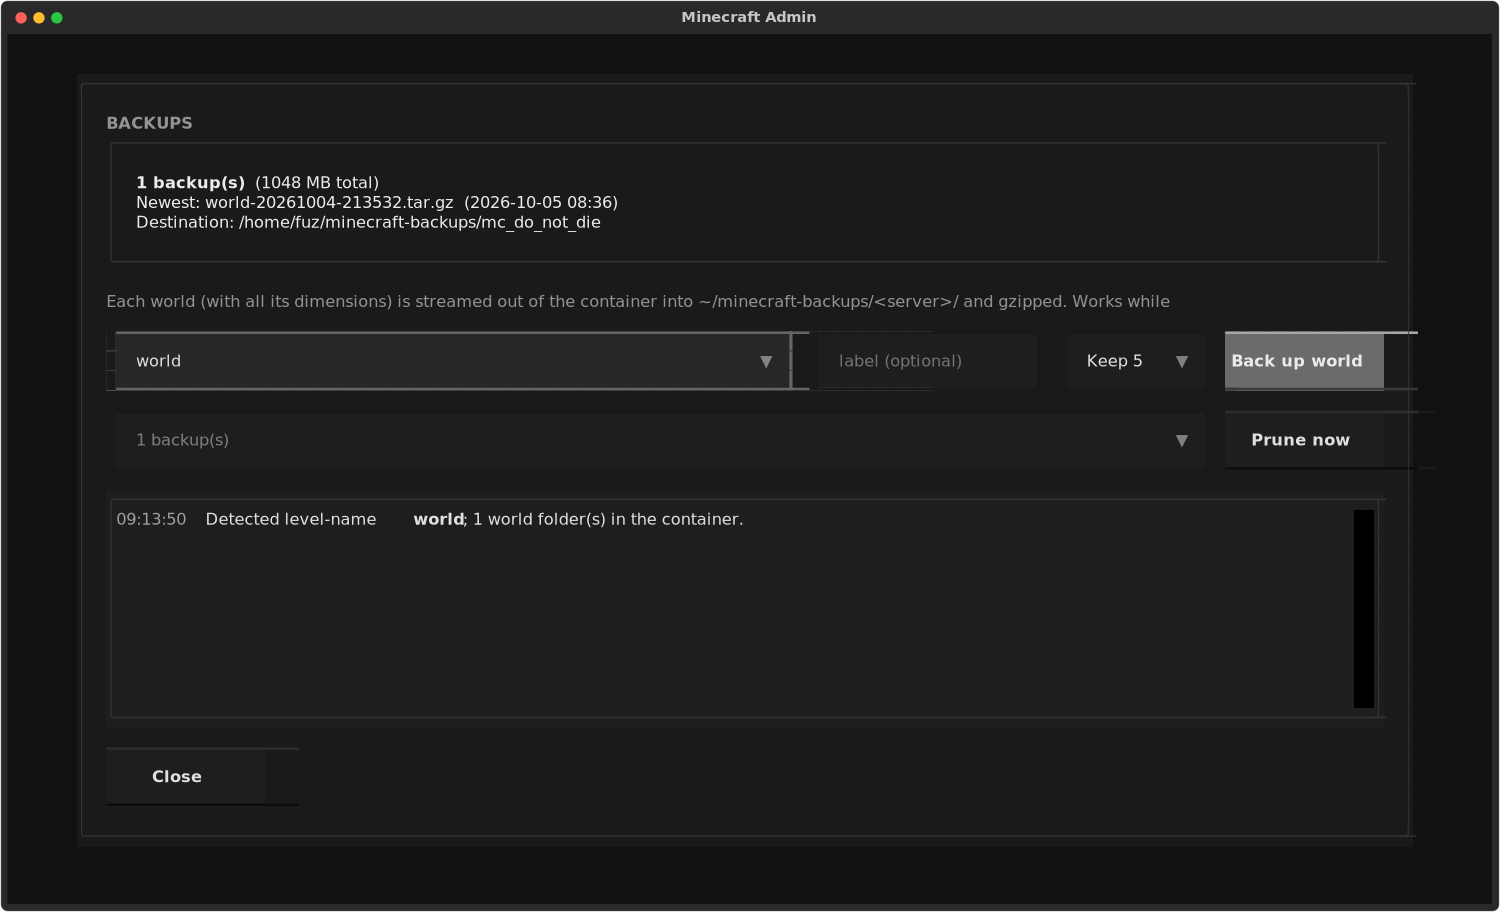
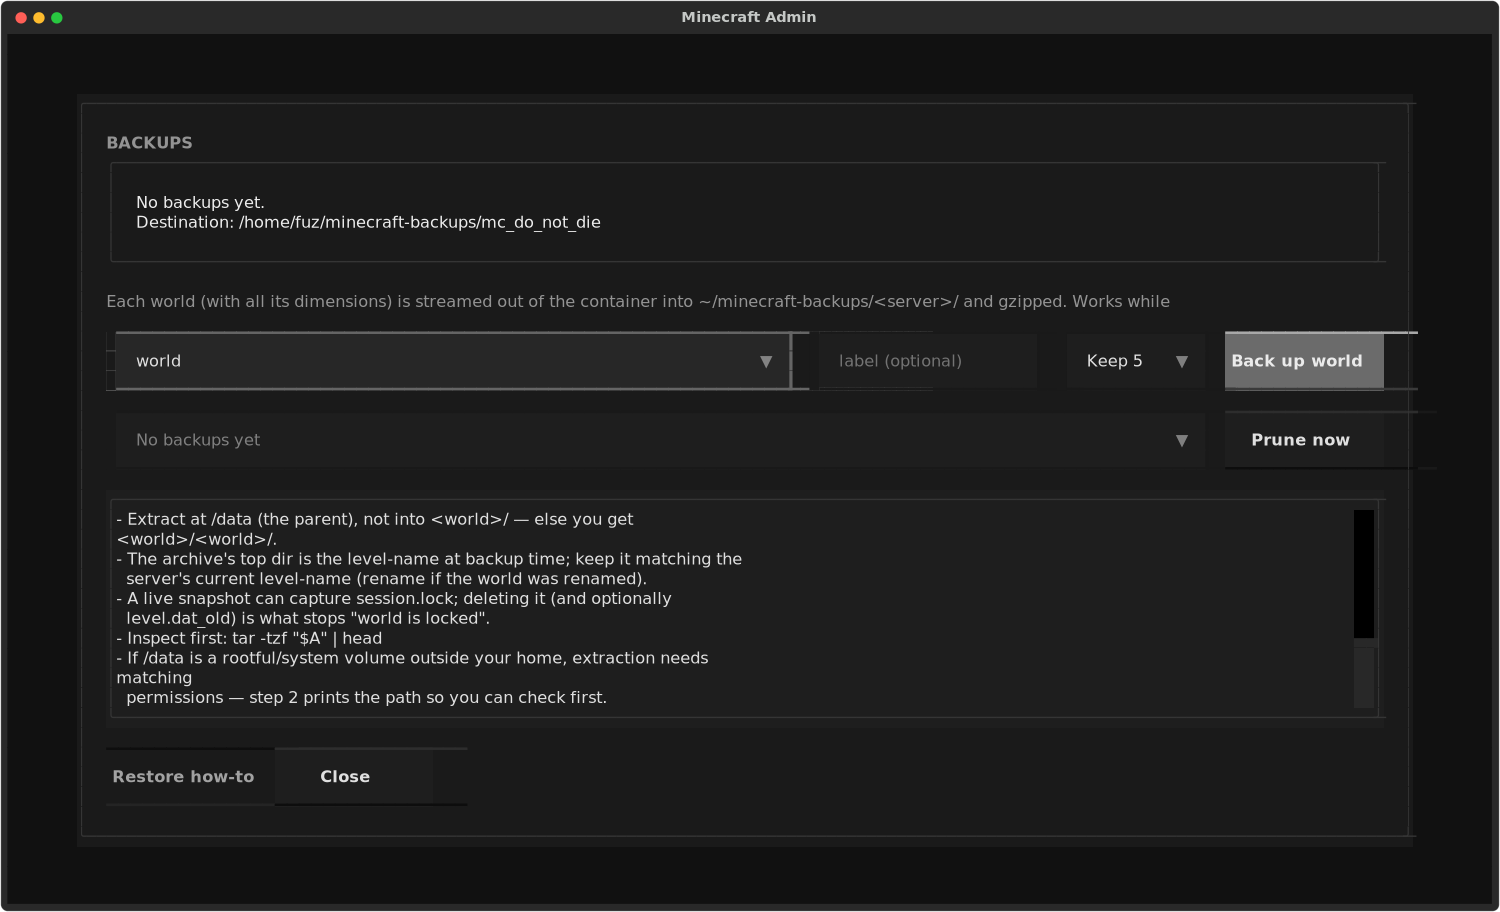
Show active server in the picker; refresh screenshots and docs
- _activate_server now syncs the server picker, so the auto-selected server
  (preferred-last-used or single-running) shows in the collapsed dropdown
  instead of a blank "No server selected" field
- README: correct the RCON credential order (server.properties is authoritative,
  .rcon-cli.yaml is a fallback) and drop the stale "no restore UI" note now that
  the Backups modal has a Restore how-to button
- regenerate docs/demo*.png against the current UI (picker shows the server,
  Settings button present, trimmed item-match names)

diff --git a/mc_admin_tui.py b/mc_admin_tui.py
@@ -1290,12 +1290,23 @@ class MinecraftAdminApp(App[None]):
             self.locations = load_locations(config.locations_path)
         else:
             self.locations = load_locations(DEFAULT_LOCATIONS)
+        self._sync_server_picker()
         self._refresh_server_info()
         self._update_location_options()
         upsert_server_config(config)
         self.refresh_players()
         self.refresh_server_status()
         self.refresh_world_status()
+
+    def _sync_server_picker(self) -> None:
+        """Point the server picker at the active server so it shows when collapsed."""
+        if self.config is None:
+            return
+        select = self.query_one("#server-select", Select)
+        selected = f"{self.config.runtime}:{self.config.container}"
+        select.value = selected if any(
+            value == selected for _, value in self._server_options()
+        ) else Select.NULL
 
     @work(thread=True, exclusive=True, group="server-info-bar")
     def _refresh_server_info(self) -> None:

diff --git a/README.md b/README.md
@@ -24,14 +24,16 @@ buttons that open their respective managers as modals.
 3. For each match the container is probed for an RCON client (`rcon-cli`, `mcrcon`,
    `rcon`) and for RCON credentials.
 4. Credentials are auto-detected, in order:
+   - `rcon.password` / `rcon.port` in the container's `/data/server.properties` —
+     the authoritative values the running server actually authenticates with;
    - `rcon-cli` config inside the container (`/data/.rcon-cli.yaml`,
-     `/data/.rcon-cli.env`, or `$HOME/.rcon-cli.*`), which is how itzg images
-     provision RCON;
+     `/data/.rcon-cli.env`, or `$HOME/.rcon-cli.*`) — a fallback, since the copy a
+     server writes there can go stale and no longer match a live RCON password;
    - `RCON_PASSWORD` / `RCON_PORT` environment variables on the container.
 
 Nothing is required in advance: for an itzg server with RCON enabled, the app finds
-the container, locates `rcon-cli`, reads `.rcon-cli.yaml` and runs commands without
-you supplying a password.
+the container, locates `rcon-cli`, reads the password from `server.properties` and
+runs commands without you supplying it.
 
 Containers that do not ship an RCON client are still listed (for status/logs/restart)
 but RCON actions report that no client was found. When the scan finds a single running
@@ -339,5 +341,6 @@ Command shape adapts to the detected client: `mcrcon` uses `-H/-P/-p` flags inst
 Player status is collected with vanilla `data get entity` commands. The TUI refreshes
 the online-player list every 5 seconds and selected-player status every 10 seconds.
 
-Backups contain no restore UI by design; see the Backups section for a manual extract
-one-liner.
+Backups have no automated restore by design. The Backups modal's **Restore how-to**
+button prints the manual steps, and the Backups section above has an extract one-liner
+(`tar -xzf … -C <server-data-dir>`; stop the container first).
